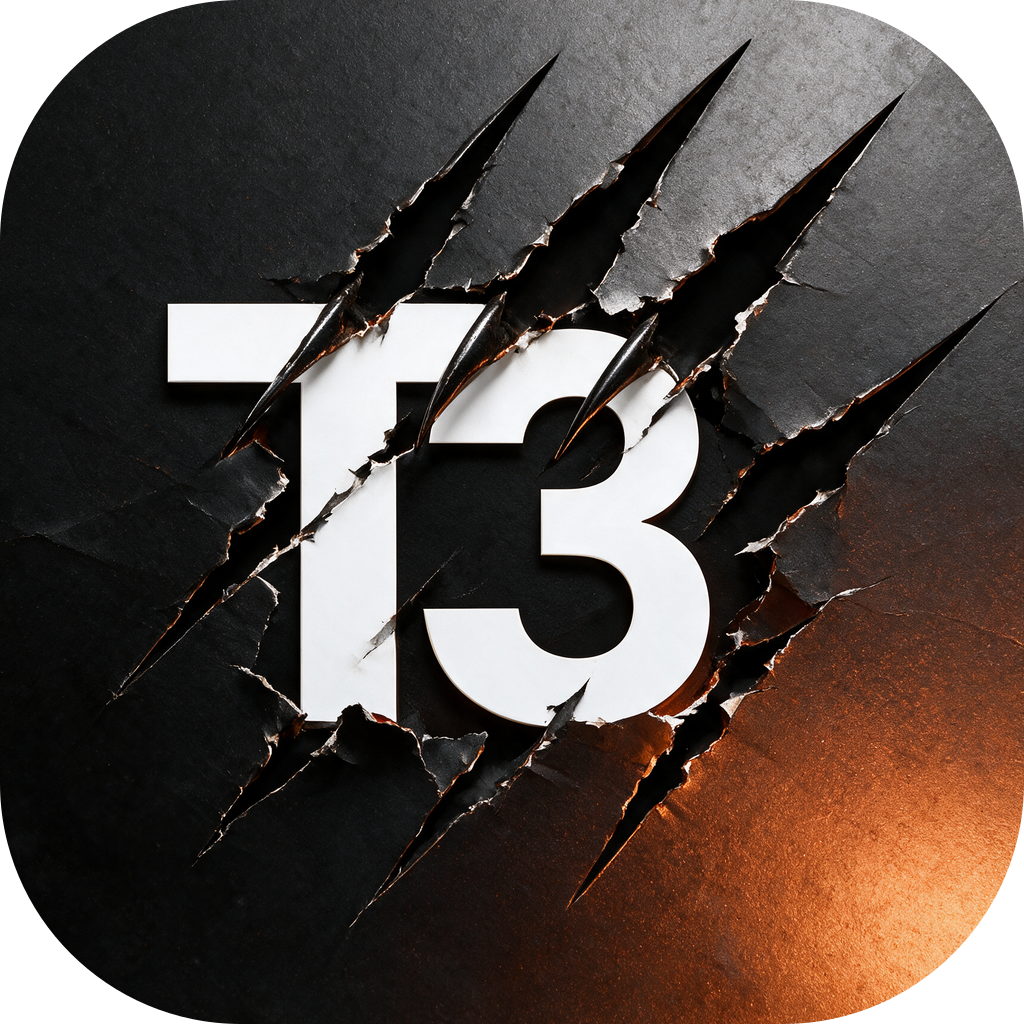
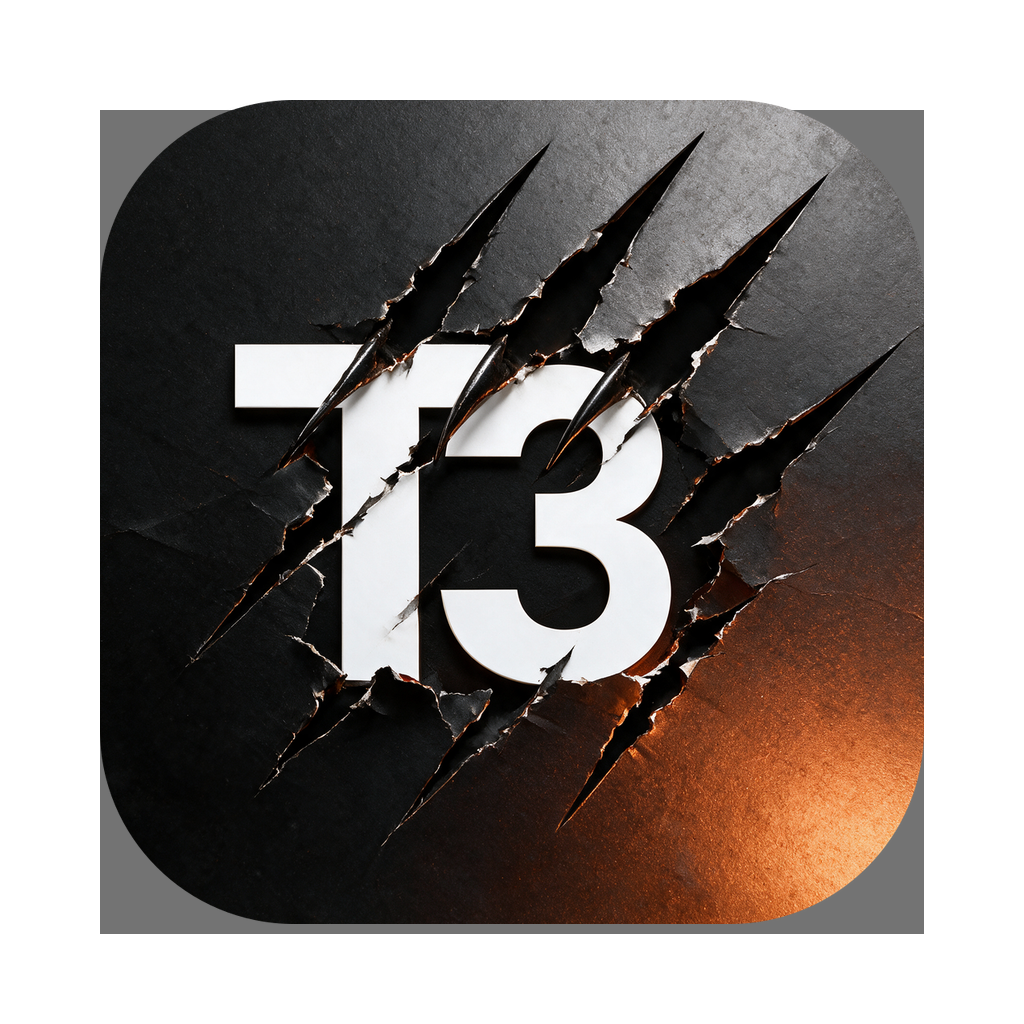
fix(identité): l'icône à la grille macOS · la marque ne disparaît plus
1. « L'icône T3 est plus grosse que toutes les autres du Dock. » Exact :
je l'avais recadrée PILE sur le squircle, alors que macOS attend une
marge — la grille système est 824 px d'art dans un canevas de 1024,
centré. Refaite à cette grille, avec l'ombre portée douce que les icônes
système ont sous leur forme (silhouette floutée, jamais un carré : le
premier essai teintait toute la boîte en noir).

2. « Quand je rétrécis la sidebar, T3 Code Raptor disparaît. » Une règle
CSS masquait la marque ENTIÈRE sous 13,5rem. Désormais le mot-marque T3
tient toujours ; ce sont les MOTS (« Code », « Raptor ») qui s'effacent
quand la place manque vraiment, sous 11rem.

Typecheck vert.

diff --git a/apps/web/src/index.css b/apps/web/src/index.css
@@ -246,7 +246,15 @@ html[data-mobile-composer-route-transition="true"]::view-transition-old(t3-mobil
 }
 
 @layer components {
+  /* La marque ne DISPARAÎT jamais : rétrécir la sidebar effaçait « T3 Code
+     Raptor » en entier sous 13,5rem (reproche fondateur 29/07). Désormais le
+     mot-marque T3 tient toujours ; ce sont les MOTS qui s'effacent, l'un
+     après l'autre, quand la place manque. */
   .sidebar-brand {
+    display: none;
+  }
+
+  .sidebar-brand-word {
     display: none;
   }
 
@@ -255,9 +263,13 @@ html[data-mobile-composer-route-transition="true"]::view-transition-old(t3-mobil
   }
 
   @media (min-width: 48rem) {
-    @container sidebar-header (min-width: 13.5rem) {
-      .sidebar-brand {
-        display: flex;
+    .sidebar-brand {
+      display: flex;
+    }
+
+    @container sidebar-header (min-width: 11rem) {
+      .sidebar-brand-word {
+        display: inline;
       }
     }
 

diff --git a/apps/web/src/components/sidebar/SidebarChrome.tsx b/apps/web/src/components/sidebar/SidebarChrome.tsx
@@ -65,7 +65,7 @@ function SidebarBrand({ onBackdrop }: { onBackdrop: boolean }) {
       <T3Wordmark />
       <span
         className={cn(
-          "truncate text-sm font-medium tracking-tight",
+          "sidebar-brand-word truncate text-sm font-medium tracking-tight",
           onBackdrop ? "text-white/70" : "text-muted-foreground",
         )}
       >
@@ -75,7 +75,7 @@ function SidebarBrand({ onBackdrop }: { onBackdrop: boolean }) {
           cuivre sur le bandeau griffé, pour prolonger l'icône. */}
       <span
         className={cn(
-          "truncate text-[11px] font-semibold uppercase tracking-[0.14em]",
+          "sidebar-brand-word truncate text-[11px] font-semibold uppercase tracking-[0.14em]",
           onBackdrop ? "text-[#ff9d4d]" : "text-muted-foreground/70",
         )}
       >
